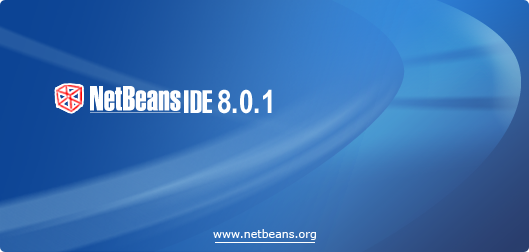
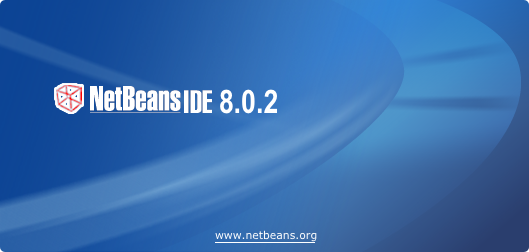
8.0.2 final branding.

diff --git a/installer/infra/build/web/js/build_info.js b/installer/infra/build/web/js/build_info.js
@@ -64,8 +64,8 @@ build_info.BOUNCER_URL = "http://services.netbeans.org/bouncer/index.php";
 build_info.USE_HTML_ZIP_LISTING = 1;
 
 build_info.add_download_tabs = function() {
-	add_download_tab("8.0", "http://netbeans.org/downloads/8.0");
-	add_download_tab("8.0.1");
+	add_download_tab("8.0.1", "http://netbeans.org/downloads/8.0.1");
+	add_download_tab("8.0.2");
 	add_download_tab(DEVELOPMENT_TITLE,DEVELOPMENT_BUILDS_LINK);
 	add_download_tab(ARCHIVE_TITLE,ARCHIVE_BUILDS_LINK);
 }

diff --git a/autoupdate.pluginimporter/src/org/netbeans/modules/autoupdate/pluginimporter/Installer.java b/autoupdate.pluginimporter/src/org/netbeans/modules/autoupdate/pluginimporter/Installer.java
@@ -74,7 +74,7 @@ public class Installer extends ModuleInstall {
     private static final List<String> VERSION_TO_CHECK =
             Arrays.asList (".netbeans/7.1.2", ".netbeans/7.1.1", ".netbeans/7.1", ".netbeans/7.0", ".netbeans/6.9"); //NOI18N
     private static final List<String> NEWER_VERSION_TO_CHECK =
-            Arrays.asList ("8.0", "7.4", "7.3.1", "7.3", "7.2.1", "7.2"); //NOI18N
+            Arrays.asList ("8.0.1", "8.0", "7.4", "7.3.1", "7.3", "7.2.1", "7.2"); //NOI18N
     private static final String IMPORTED = "imported"; // NOI18N
 
     @Override

diff --git a/o.n.upgrader/src/org/netbeans/upgrade/AutoUpgrade.java b/o.n.upgrader/src/org/netbeans/upgrade/AutoUpgrade.java
@@ -118,7 +118,7 @@ public final class AutoUpgrade {
     
     // userdir on OS specific root of userdir (see issue 196075)
     static final List<String> NEWER_VERSION_TO_CHECK =
-            Arrays.asList ("8.0", "7.4", "7.3.1", "7.3", "7.2.1", "7.2"); //NOI18N
+            Arrays.asList ("8.0.1", "8.0", "7.4", "7.3.1", "7.3", "7.2.1", "7.2"); //NOI18N
 
             
     private static File checkPreviousOnOsSpecificPlace (final List<String> versionsToCheck) {
